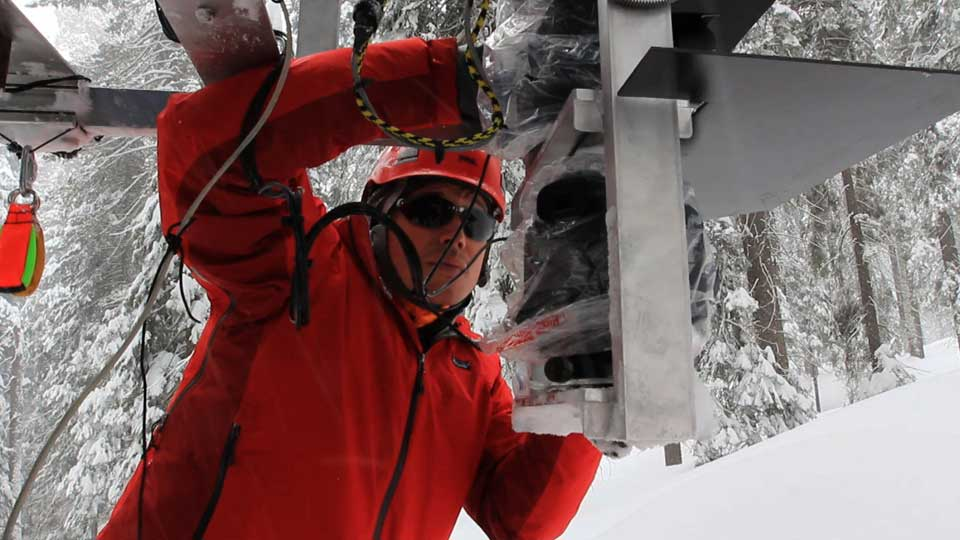
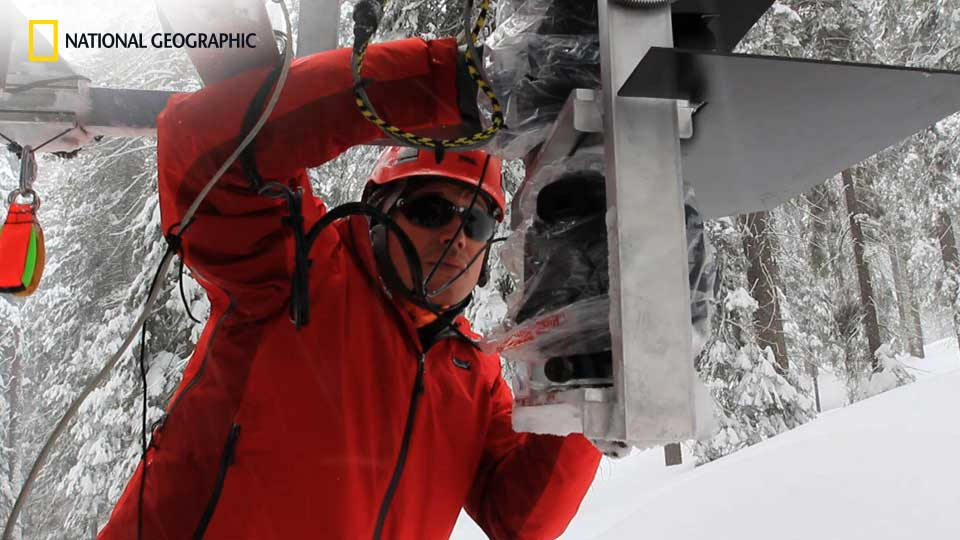
fix toc and add watermark to images

Changed region(s): [[0.0, 0.0, 0.4062, 0.2963]]

diff --git a/phonegap/js/views/toc-view.js b/phonegap/js/views/toc-view.js
@@ -144,22 +144,25 @@ define([], function (require) {
                 max_width = padding,
                 button,
                 scale = 2.2,
+                btn_width = window.innerWidth / scale,
                 id;
 
             for (i = 0; i < contents.length; i += 1) {
+
                 id = i > 0 ? i + 1: 0;
                 button = new TOCViewButton(id, dir + contents[i].img);
-                button.setSize(window.innerWidth / scale, window.innerHeight / scale);
+                button.setSize(btn_width, window.innerHeight / scale);
                 button.setPosition(x, y);
                 button.render();
                 buttons.push(button);
 
-                if (i % Math.round(contents.length / 2) === 0 && i !== 0) {
-                    max_width = x;
+
+                if (i == 6) {
+                    max_width = x + btn_width + padding;
                     y += (window.innerHeight / scale) + padding;
                     x = padding;
                 } else {
-                    x += (window.innerWidth / scale) + padding;
+                    x += btn_width + padding;
                 }
 
                 button.render().html(contents[i].content);

diff --git a/phonegap/css/screen.css b/phonegap/css/screen.css
@@ -298,9 +298,10 @@ html, body {
   background-position: 50% 50%;
 }
 
-@media screen and (device-width: 600px) and (device-height: 905px) and (-webkit-min-device-pixel-ratio: 1.331) and (-webkit-max-device-pixel-ratio: 1.332) {
-  /* line 205, ../sass/screen/_main.scss */
-  body {
+/* Nexus 7 */
+@media only screen and (min-device-width: 603px) and (max-device-width: 966px) {
+  /* line 206, ../sass/screen/_main.scss */
+  html, body {
     font-size: 80%;
   }
 }
@@ -343,8 +344,8 @@ section.page-view-full.in {
   position: relative;
   width: 100%;
   height: 80vh;
-  box-sizing: border-box;
   padding: 2em;
+  box-sizing: border-box;
 }
 
 /* line 43, ../sass/screen/_pages.scss */
@@ -833,7 +834,7 @@ section.page-view-full.in {
   background-image: url(../assets/images/article1/elevation-small.png);
   background-repeat: no-repeat;
   background-size: 100%;
-  border: 1px solid black;
+  border: 1px solid #ccc;
   background-color: white;
 }
 

diff --git a/phonegap/sass/screen/_main.scss b/phonegap/sass/screen/_main.scss
@@ -201,8 +201,9 @@ html, body{
     background-position: 50% 50%;
 }
 
-@media screen and (device-width: 600px) and (device-height: 905px) and (-webkit-min-device-pixel-ratio: 1.331) and (-webkit-max-device-pixel-ratio: 1.332) {
-    body{
+/* Nexus 7 */
+@media only screen and (min-device-width : 603px) and (max-device-width : 966px){
+    html, body{
         font-size: 80%;
     }
 }

diff --git a/phonegap/sass/screen/_map.scss b/phonegap/sass/screen/_map.scss
@@ -207,7 +207,7 @@ $lightblue: rgb(48, 145, 95);
     background-image: url(../assets/images/article1/elevation-small.png);
     background-repeat: no-repeat;
     background-size: 100%;
-    border: 1px solid black;
+    border: 1px solid #ccc;
     background-color: white;
 }
 

diff --git a/phonegap/sass/screen/_pages.scss b/phonegap/sass/screen/_pages.scss
@@ -36,8 +36,8 @@ section{
     position: relative;
     width: 100%;
     height: 80vh;
-    box-sizing: border-box;
     padding: 2em;
+    box-sizing: border-box;
 }
 
 .region1{
